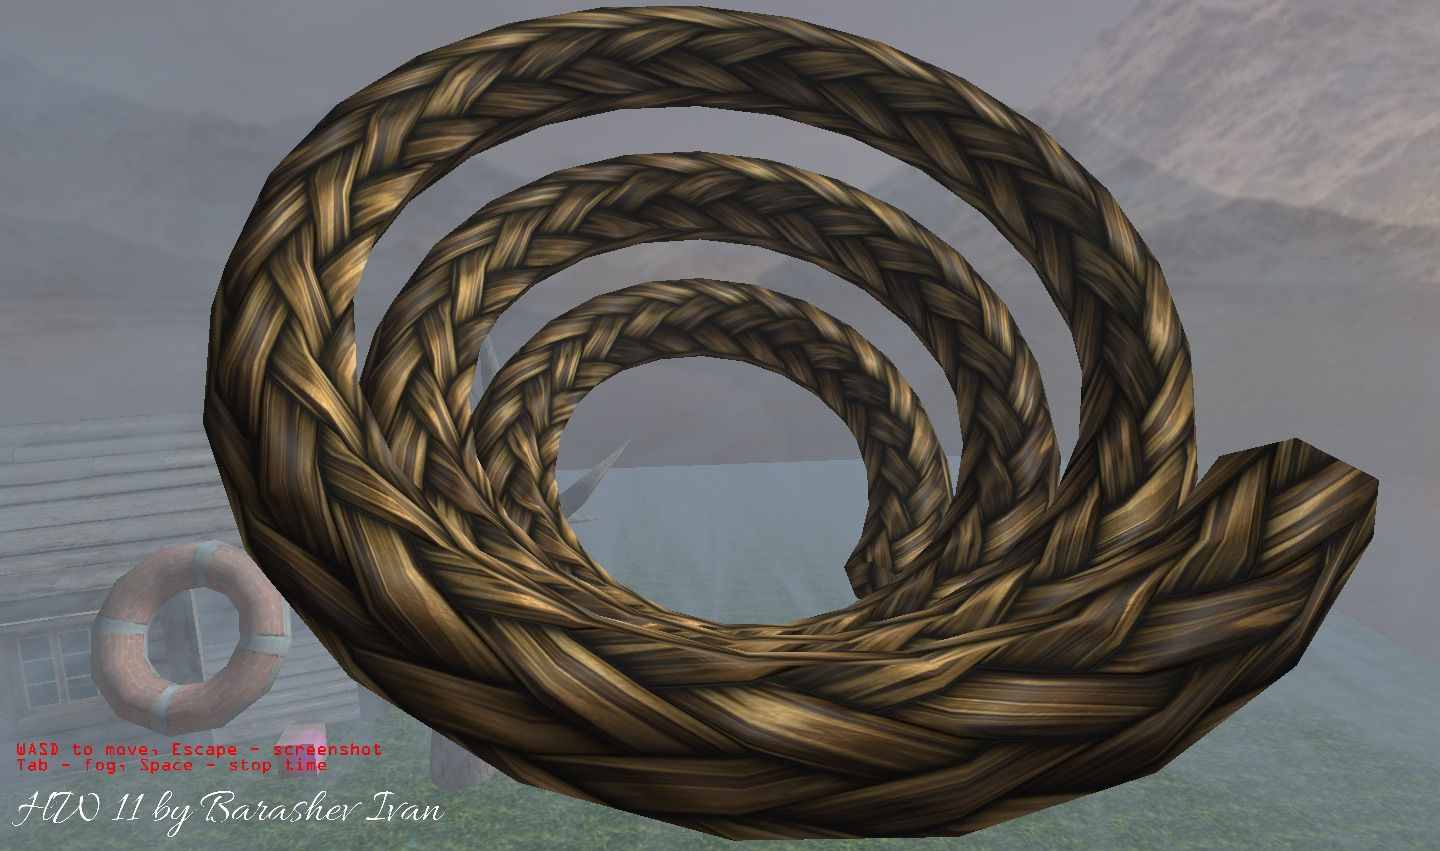
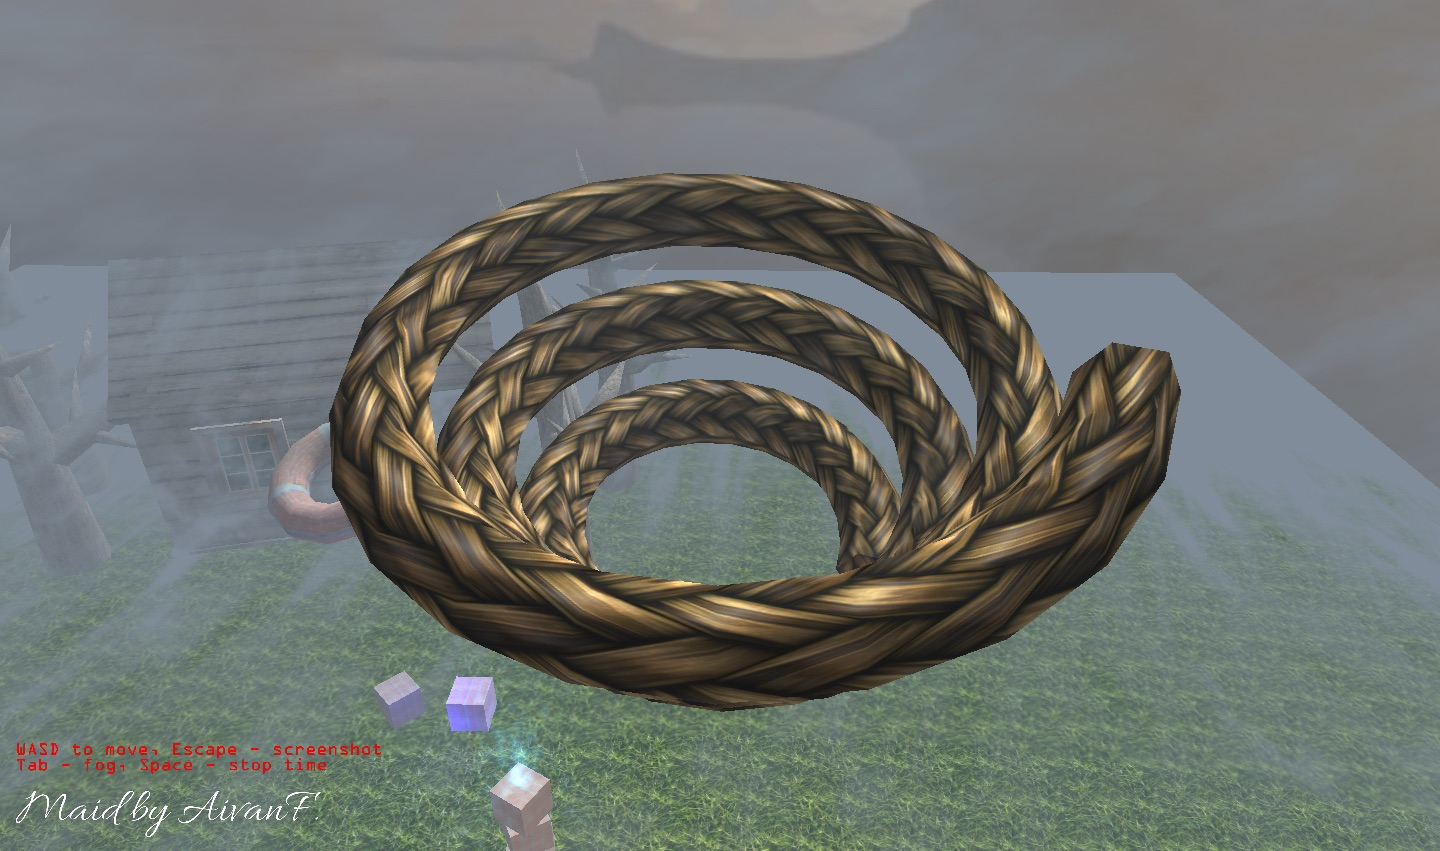
More screenshots

diff --git a/OpenGL-Cpp-Mac/Cpp/WorldDraw.cpp b/OpenGL-Cpp-Mac/Cpp/WorldDraw.cpp
@@ -146,7 +146,7 @@ void World::draw2D(float w, float h) {
     
     /// Draw text
     glUniform4fv(_shpf->uniform("vColor"), 1, glm::value_ptr(glm::vec4(1, 1, 1, 1)));
-    fnt1.Print("HW 11 by Barashev Ivan", 32, 64, 96);
+    fnt1.Print("Maid by AivanF.", 32, 64, 96);
     
     glUniform4fv(_shpf->uniform("vColor"), 1, glm::value_ptr(glm::vec4(1, 0, 0, 1)));
     fnt2.Print("WASD to move, Escape - screenshot\nTab - fog, Space - stop time", 32, 192, 32);
